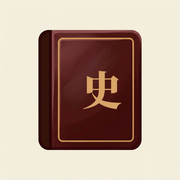
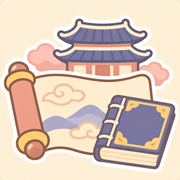
홈 화면 아이콘 새로 그리기 + 폰 화면에 아이콘 만들기 버튼 (v157)

diff --git a/index.html b/index.html
@@ -10,12 +10,18 @@
 <meta property="og:image:width" content="1200">
 <meta property="og:image:height" content="671">
 <meta name="twitter:card" content="summary_large_image">
-<link rel="icon" href="images/favicon.ico">
-<link rel="apple-touch-icon" href="images/apple-touch-icon-180.png">
+<link rel="icon" href="images/favicon.ico?v=157" sizes="any">
+<link rel="icon" type="image/png" sizes="32x32" href="images/favicon-32.png">
+<link rel="manifest" href="manifest.webmanifest">
+<meta name="theme-color" content="#F6F3EB">
+<meta name="apple-mobile-web-app-capable" content="yes">
+<meta name="apple-mobile-web-app-title" content="나의 역사책">
+<link rel="apple-touch-icon" sizes="180x180" href="images/apple-touch-icon-180.png?v=157">
 <link rel="preconnect" href="https://fonts.googleapis.com">
 <link href="https://fonts.googleapis.com/css2?family=Gowun+Batang:wght@400;700&display=swap" rel="stylesheet">
 <link rel="stylesheet" href="https://cdn.jsdelivr.net/gh/orioncactus/pretendard@v1.3.9/dist/web/static/pretendard.min.css">
-<link rel="stylesheet" href="style.css?v=156">
+<link rel="stylesheet" href="style.css?v=157">
+<script src="js/11-pwa-install.js?v=157" defer></script>
 <!-- v83 — 로그인 세션을 Apps Script 호출에 자동으로 붙이는 공용 스크립트(개별 웹앱도 같은 파일을 쓴다) -->
 <script src="snippets/portal_auth.js" data-guard="off"></script>
 </head>
@@ -370,6 +376,8 @@
 
     </main>
   </div>
+  <!-- v157 — 맨 아래 작은 «홈 화면에 추가» (기기에서 설치할 수 있을 때만 js/11-pwa-install.js가 보여 줌) -->
+  <p class="addhome-row"><button class="btn-logout" id="btnAddHome" style="display:none;">📲 폰 화면에 아이콘 만들기</button></p>
 </div>
 
 <!-- ══════════════ 교사 대시보드 ══════════════ -->
@@ -1086,6 +1094,16 @@
       <button type="button" class="btn" id="pwDialogSave">바꾸기</button>
       <button type="button" class="btn btn-ghost" id="pwDialogCancel">취소</button>
     </div>
+  </div>
+</div>
+
+<!-- v157 — 홈 화면에 추가 방법 안내 -->
+<div id="addHomeDialog" class="pw-dialog" style="display:none;" role="dialog" aria-modal="true" aria-labelledby="addHomeTitle">
+  <div class="pw-dialog-card">
+    <p class="pw-dialog-title" id="addHomeTitle">📲 홈 화면에 추가하기</p>
+    <p class="muted" style="font-size:.9rem;margin:0 0 8px;">폰 화면에 아이콘을 만들어 두면 바로 열 수 있어요.</p>
+    <ol id="addHomeSteps" style="margin:0 0 14px;padding-left:1.3em;line-height:1.8;"></ol>
+    <button type="button" class="btn" id="addHomeClose">알겠어요</button>
   </div>
 </div>
 

diff --git a/js/11-pwa-install.js b/js/11-pwa-install.js
@@ -1,0 +1,47 @@
+/* v157 — «홈 화면에 추가» 버튼. 안드로이드/크롬은 설치 창(beforeinstallprompt), iOS·그 밖엔 방법 안내 창.
+   이미 홈 화면에서 연 상태(standalone)면 버튼을 숨긴다. 서버·학생 기록과 무관(쓰기 없음). */
+(function(){
+  let deferred = null;
+  const standalone = () => (window.matchMedia && matchMedia('(display-mode: standalone)').matches) || navigator.standalone === true;
+  const ua = navigator.userAgent || '';
+  const isIOS = /iPhone|iPad|iPod/.test(ua) || (navigator.platform === 'MacIntel' && navigator.maxTouchPoints > 1);
+  const isAndroid = /Android/.test(ua);
+  const isMobile = isIOS || isAndroid;
+  window.addEventListener('beforeinstallprompt', e => { e.preventDefault(); deferred = e; refresh(); });
+  window.addEventListener('appinstalled', () => { deferred = null; try{ localStorage.setItem('h26_pwa_installed','1'); }catch(e){} refresh(); });
+  if('serviceWorker' in navigator){ window.addEventListener('load', () => navigator.serviceWorker.register('sw.js').catch(() => {})); }
+
+  function refresh(){
+    const b = document.getElementById('btnAddHome');
+    if(!b) return;
+    let done = false; try{ done = localStorage.getItem('h26_pwa_installed') === '1'; }catch(e){}
+    b.style.display = (!standalone() && !done && (deferred || isMobile)) ? '' : 'none';
+  }
+  function steps(){
+    if(isIOS) return ['아이폰·아이패드는 <b>사파리</b>로 열어야 해요.', '화면 아래(또는 위)의 <b>공유 버튼 ⬆</b>을 눌러요.', '목록에서 <b>「홈 화면에 추가」</b>를 눌러요.', '오른쪽 위 <b>추가</b>를 누르면 끝!'];
+    return ['오른쪽 위 <b>⋮ 메뉴</b>를 눌러요.', '<b>「홈 화면에 추가」</b>(또는 「앱 설치」)를 눌러요.', '<b>추가</b>를 누르면 끝!'];
+  }
+  function openGuide(){
+    const d = document.getElementById('addHomeDialog');
+    document.getElementById('addHomeSteps').innerHTML = steps().map(s => '<li>' + s + '</li>').join('');
+    d.style.display = 'flex';
+  }
+  async function onClick(){
+    if(deferred){
+      const p = deferred; deferred = null;
+      p.prompt();
+      try{ await p.userChoice; }catch(e){}
+      refresh();
+      return;
+    }
+    openGuide();
+  }
+  function init(){
+    const b = document.getElementById('btnAddHome');
+    if(!b) return;
+    b.addEventListener('click', onClick);
+    document.getElementById('addHomeClose').addEventListener('click', () => { document.getElementById('addHomeDialog').style.display = 'none'; });
+    refresh();
+  }
+  if(document.readyState === 'loading') document.addEventListener('DOMContentLoaded', init); else init();
+})();

diff --git a/style.css b/style.css
@@ -329,6 +329,9 @@ button{font-family:inherit; cursor:pointer;}
   background:var(--card); border:1px solid var(--line); border-radius:999px; color:var(--ink-soft);
 }
 .btn-logout:hover{border-color:var(--ink-soft);}
+/* v157 — 포털 맨 아래 «폰 화면에 아이콘 만들기»(눈에 덜 띄게 가운데 작게) */
+.addhome-row{text-align:center; margin:22px 0 0;}
+.addhome-row .btn-logout{font-size:.82rem; color:var(--ink-soft); white-space:nowrap;}
 
 /* 2단 레이아웃 */
 .layout{display:grid; grid-template-columns:250px minmax(0,1fr); gap:18px; align-items:start;}

diff --git a/sw.js b/sw.js
@@ -1,0 +1,4 @@
+/* v157 — 홈 화면 설치용 최소 서비스워커. 캐시를 하지 않는다(수업 중 고친 화면이 바로 보이게). 요청을 그대로 통과시킨다. */
+self.addEventListener('install', () => self.skipWaiting());
+self.addEventListener('activate', e => e.waitUntil(self.clients.claim()));
+self.addEventListener('fetch', () => {});

diff --git a/CHANGELOG.md b/CHANGELOG.md
@@ -7,6 +7,9 @@
 이력도 있음 — `git log` "버전표기 충돌 정리" 커밋 참고). 확인 시점 기준 `index.html`/`style.css`에서
 가장 높은 버전 표기는 v68.
 
+## v157 (2026-11-09) — 홈 화면 아이콘 새로 그리기 + «홈 화면에 추가» 버튼
+효니: 폰 홈 화면 아이콘이 밋밋하니 파스텔 스티커풍으로 다시 만들고, 앱 안에서 바로 홈 화면에 추가할 수 있게 해 달라. 힉스필드 gpt_image_2_6로 두루마리·고서·고궁 지붕 그림을 그려 `images/icon-192`·`icon-512`·`icon-maskable-512`·`apple-touch-icon-180`·`favicon-32`·`favicon.ico`로 만들고(192·512·favicon은 모서리 바깥 투명, apple-touch는 iOS가 직접 깎으니 불투명, maskable은 중앙 안전영역), `manifest.webmanifest`·`sw.js`(캐시 없이 통과만 하는 최소 서비스워커)·`theme-color`를 추가했다. 포털 맨 아래에 작은 «📲 폰 화면에 아이콘 만들기» 버튼(`js/11-pwa-install.js`): 안드로이드·크롬은 설치 창(`beforeinstallprompt`), iOS·그 밖은 방법 안내 창, 이미 홈 화면에서 연 상태(standalone)면 숨김. 쓰기·서버 호출 없음. 이미 홈 화면에 추가한 폰은 아이콘을 지우고 다시 추가해야 새 그림이 보인다.
+
 ## v156 (2026-11-09) — 로그인 책 표지에 표지 그림
 효니: 노션 «만든 웹앱» 카드 표지 그림을 실제 웹앱에도 넣어 달라. 책 표지(`#bookCover .book-frame`) 맨 위, 제목 위에
 `images/cover.webp`(1200px, 65KB)를 금선 액자처럼 16:7로 넣었다. 글자 없는 장식 그림이라 `alt=""`. 처음 보일 때 한 번
